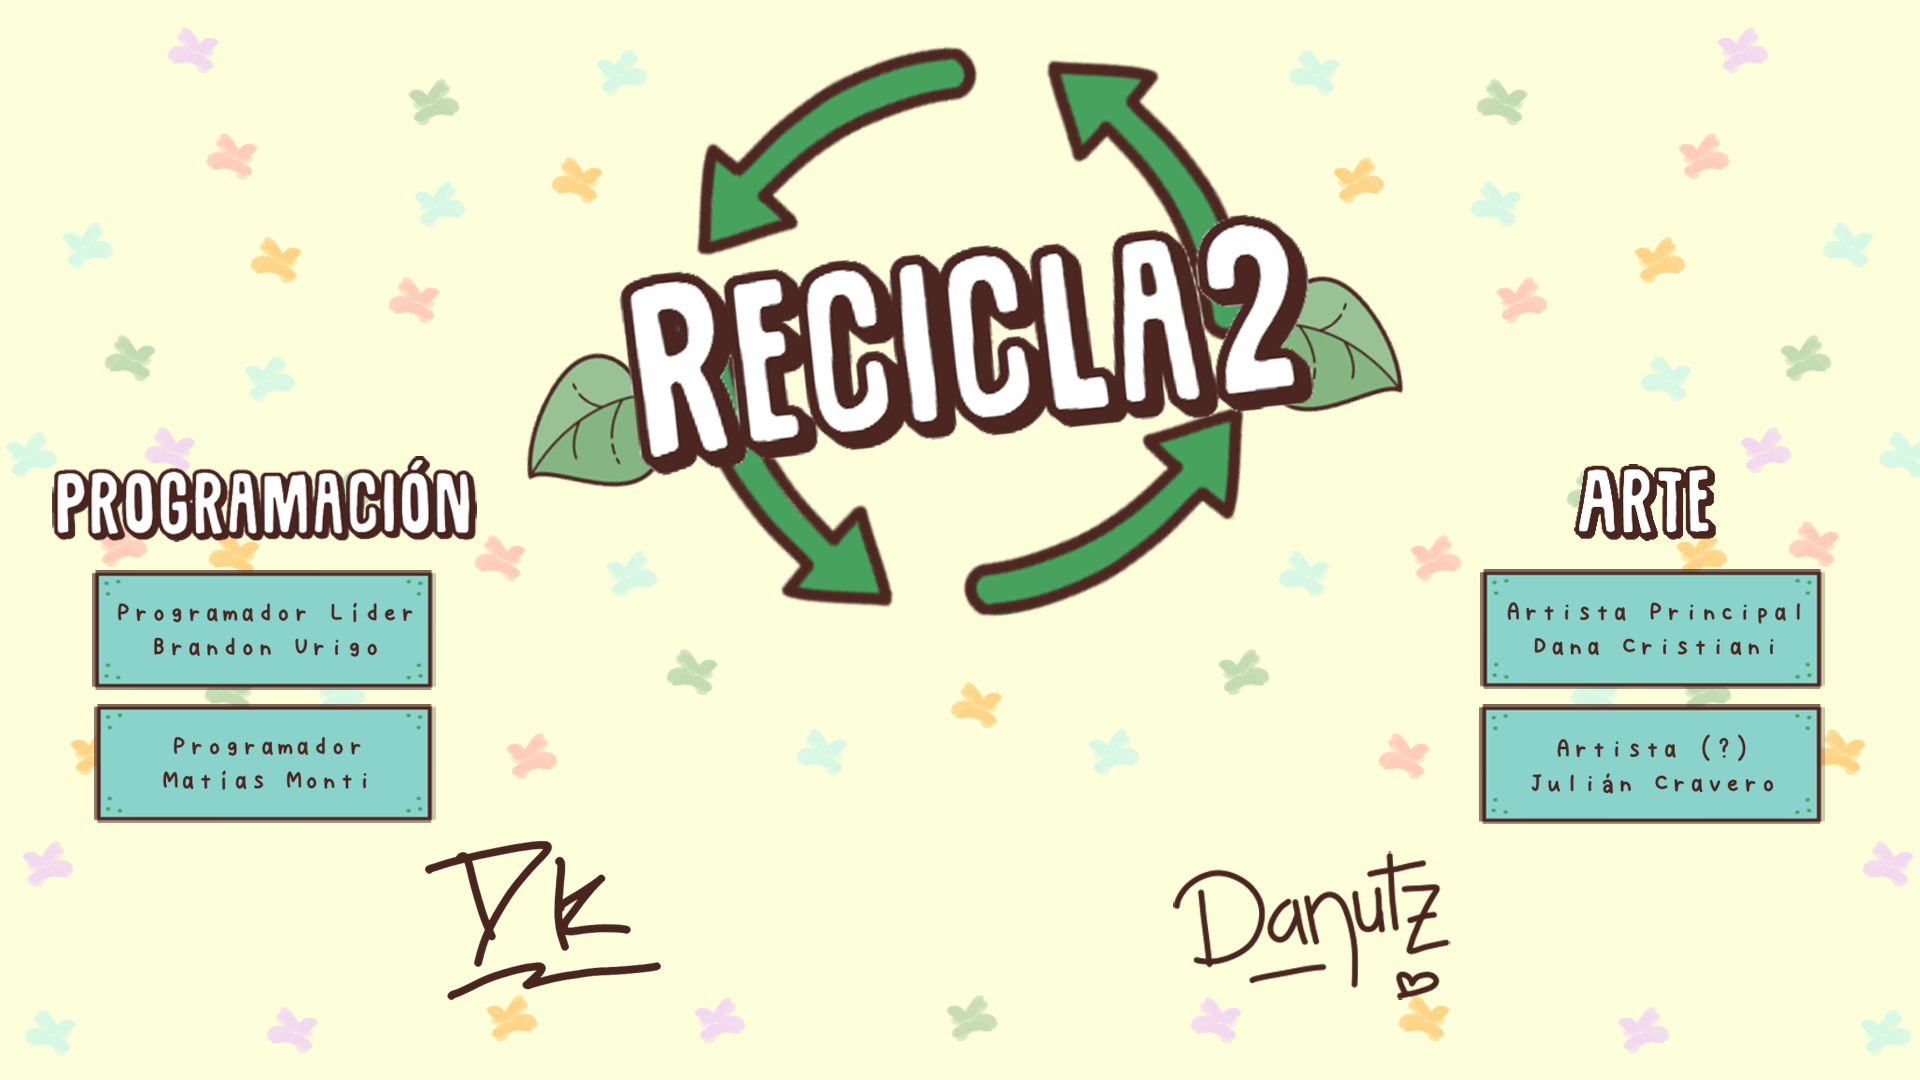
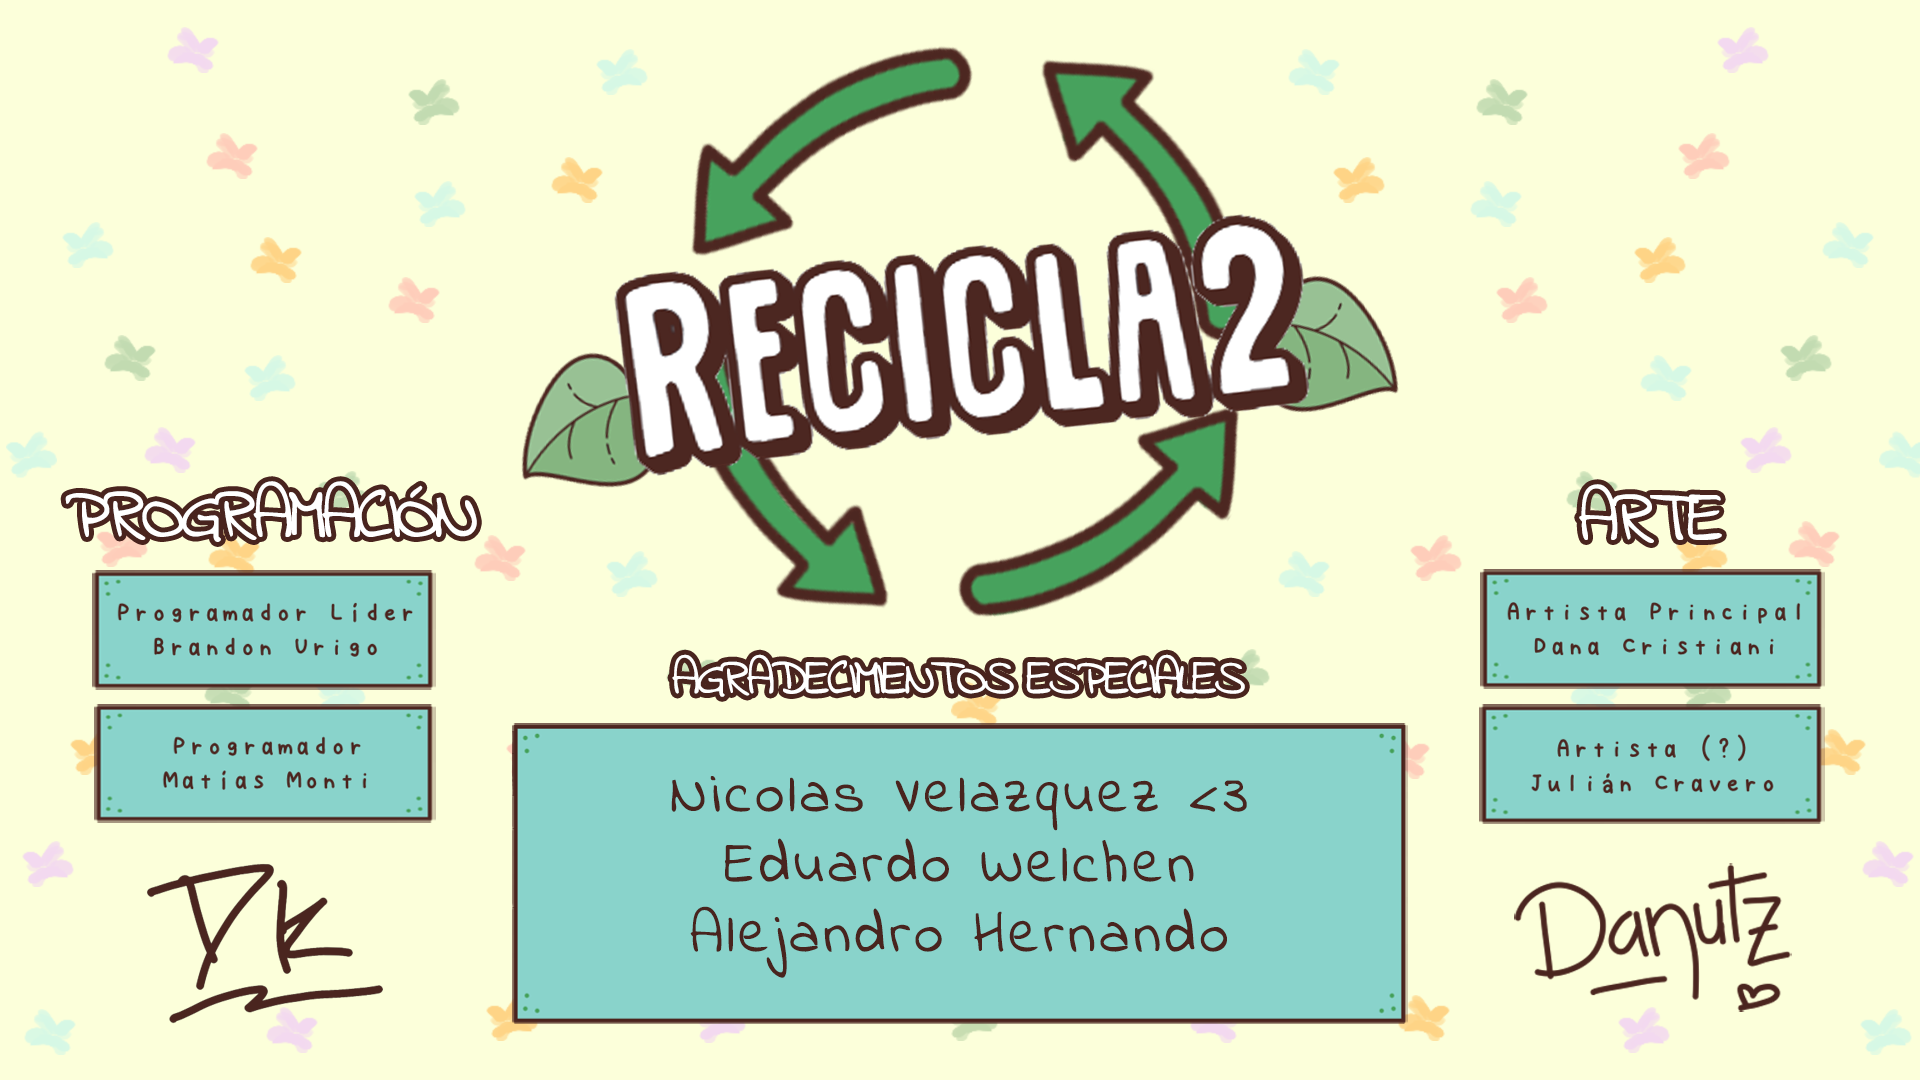
Papas annadidas con exito!

diff --git a/src/View/Creditos.ts b/src/View/Creditos.ts
@@ -29,9 +29,54 @@ export default class Creditos extends Phaser.Scene {
     );
     this._botonVolver.boton.setDepth(2);
     this._botonVolver.boton.on("pointerup", () => {
-      this.scene.moveBelow("Creditos", "MenuPrincipal");
       this.scene.wake("MenuPrincipal");
       this.scene.sleep("Creditos");
+    });
+
+    let btnDrift = this.add.image(263, 620, "boton3");
+    btnDrift.setScale(2);
+    btnDrift.setDepth(2);
+    btnDrift.setInteractive();
+    btnDrift.on("pointerup", () => {
+      this.add.image(1920 / 2, 1080 / 2, "dehaka").setDepth(10);
+      this.time.delayedCall(1000, () => {
+        window.location.href = "https://github.com/OptimusDrift";
+      });
+    });
+
+    let btnNico = this.add.image(965, 775, "boton4");
+    btnNico.setScale(2);
+    btnNico.setDepth(2);
+    btnNico.setInteractive();
+    btnNico.on("pointerup", () => {
+      window.location.href = "https://twitter.com/NicooVelasquez";
+    });
+
+    let btnEddie = this.add.image(965, 875, "boton4");
+    btnEddie.setScale(2);
+    btnEddie.setDepth(2);
+    btnEddie.setInteractive();
+    btnEddie.on("pointerup", () => {
+      window.location.href = "https://twitter.com/eddieonlive";
+    });
+
+    let btnAle = this.add.image(965, 975, "boton4");
+    btnAle.setScale(2);
+    btnAle.setDepth(2);
+    btnAle.setInteractive();
+    btnAle.on("pointerup", () => {
+      window.location.href = "https://www.instagram.com/alejandro_hernado/";
+    });
+
+    let btnDana = this.add.image(1663, 620, "boton3");
+    btnDana.setScale(2);
+    btnDana.setDepth(2);
+    btnDana.setInteractive();
+    btnDana.on("pointerup", () => {
+      this.add.image(1920 / 2, 1080 / 2, "risaVaquita").setDepth(10);
+      this.time.delayedCall(1000, () => {
+        window.location.href = "https://twitter.com/sassy_kujo";
+      });
     });
   }
 

diff --git a/src/View/Carga.ts b/src/View/Carga.ts
@@ -47,6 +47,8 @@ export default class Carga extends Phaser.Scene {
     //--------Botones--------------\\
     this.load.image("boton", "assets/Botones/Boton.png");
     this.load.image("boton2", "assets/Botones/Boton2.png");
+    this.load.image("boton3", "assets/Botones/Boton3.png");
+    this.load.image("boton4", "assets/Botones/Boton4.png");
     this.load.image("creditos", "assets/Botones/Creditos.png");
     this.load.image("gomera", "assets/Botones/Gomera.png");
     this.load.image("tienda", "assets/Botones/Tienda.png");
@@ -71,7 +73,6 @@ export default class Carga extends Phaser.Scene {
     this.load.image("plasticoResiduo", "assets/Basura/Plastico.png");
     this.load.image("papelResiduo", "assets/Basura/Papel.png");
     this.load.image("papelResiduo", "assets/Basura/Papel.png");
-
     //--------Recipientes---------\\
     this.load.image("papel", "assets/Recipiente/Papel_Azul.png");
     this.load.image("bateria", "assets/Recipiente/Pilas_Rojo.png");
@@ -86,6 +87,8 @@ export default class Carga extends Phaser.Scene {
       frameWidth: 411,
       frameHeight: 868,
     }); //Carga la animacion de la risa
+    this.load.image("risaVaquita", "assets/Risa/RisaVaquita.png");
+    this.load.image("dehaka", "assets/Risa/Dehaka.png");
     //------------FONDOS------------\\
     this.load.image("fondoTrivia", "assets/Pantallas/FondoTrivia.png");
     this.load.image("fondoMenu", "assets/Pantallas/MenuPrincipal.png");

diff --git a/src/index.html b/src/index.html
@@ -9,7 +9,7 @@
     <style>
       body {
         font-family: "Indie Flower";
-        font-size: 48px;
+        font-size: 50px;
       }
     </style>
     <title>Recicla2</title>
